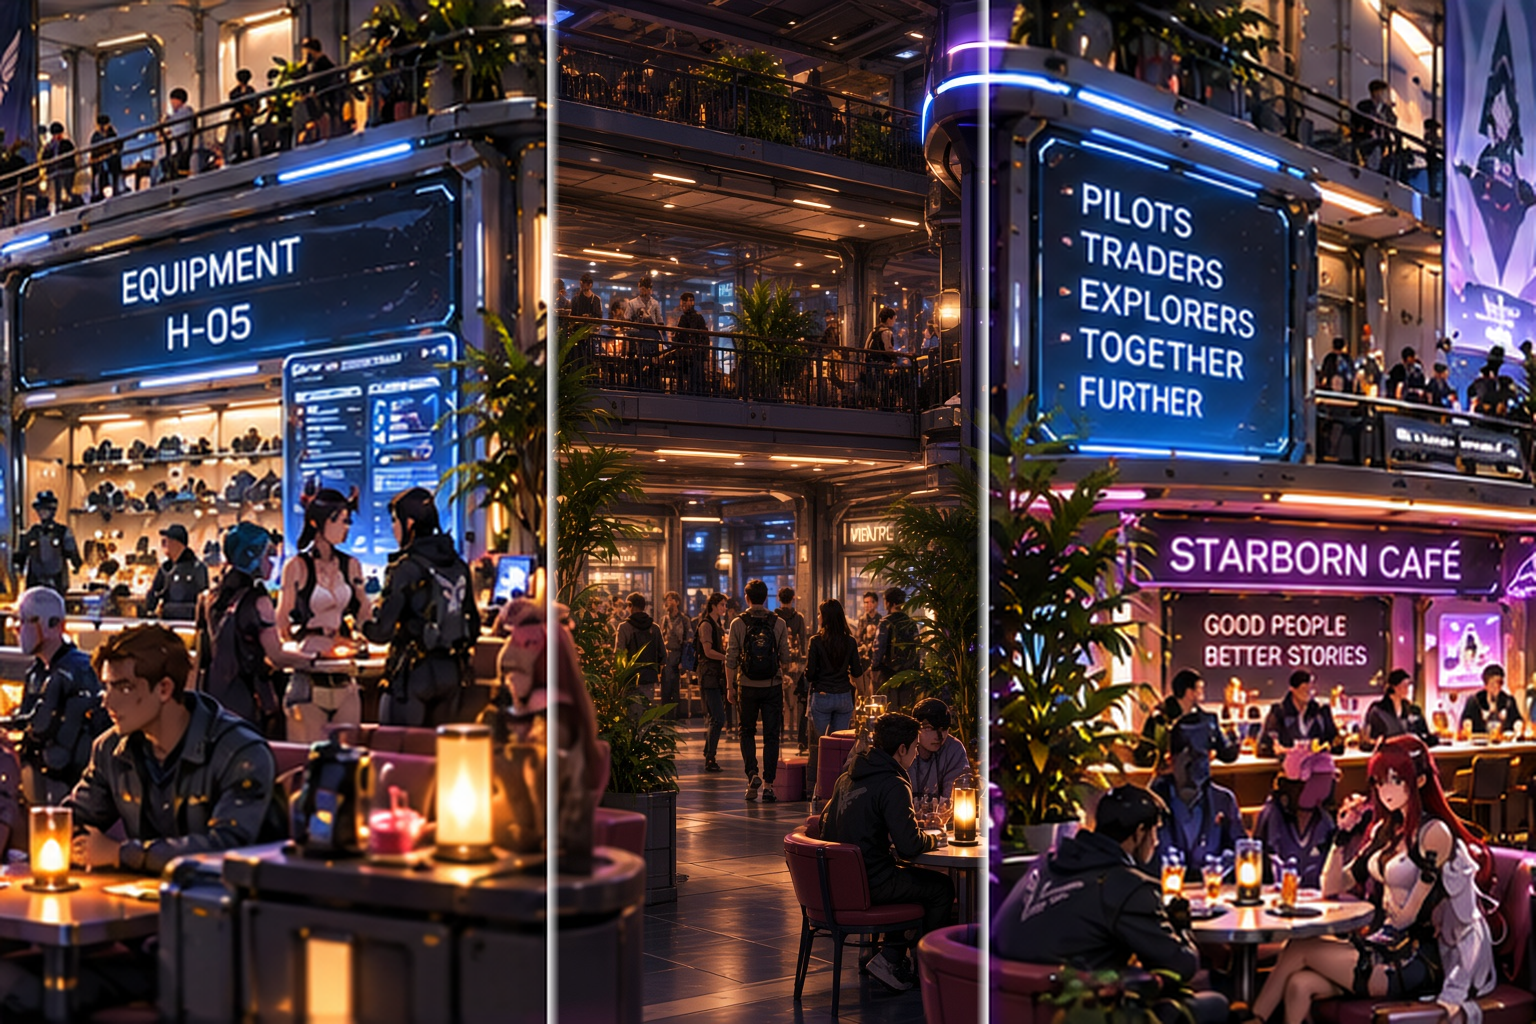
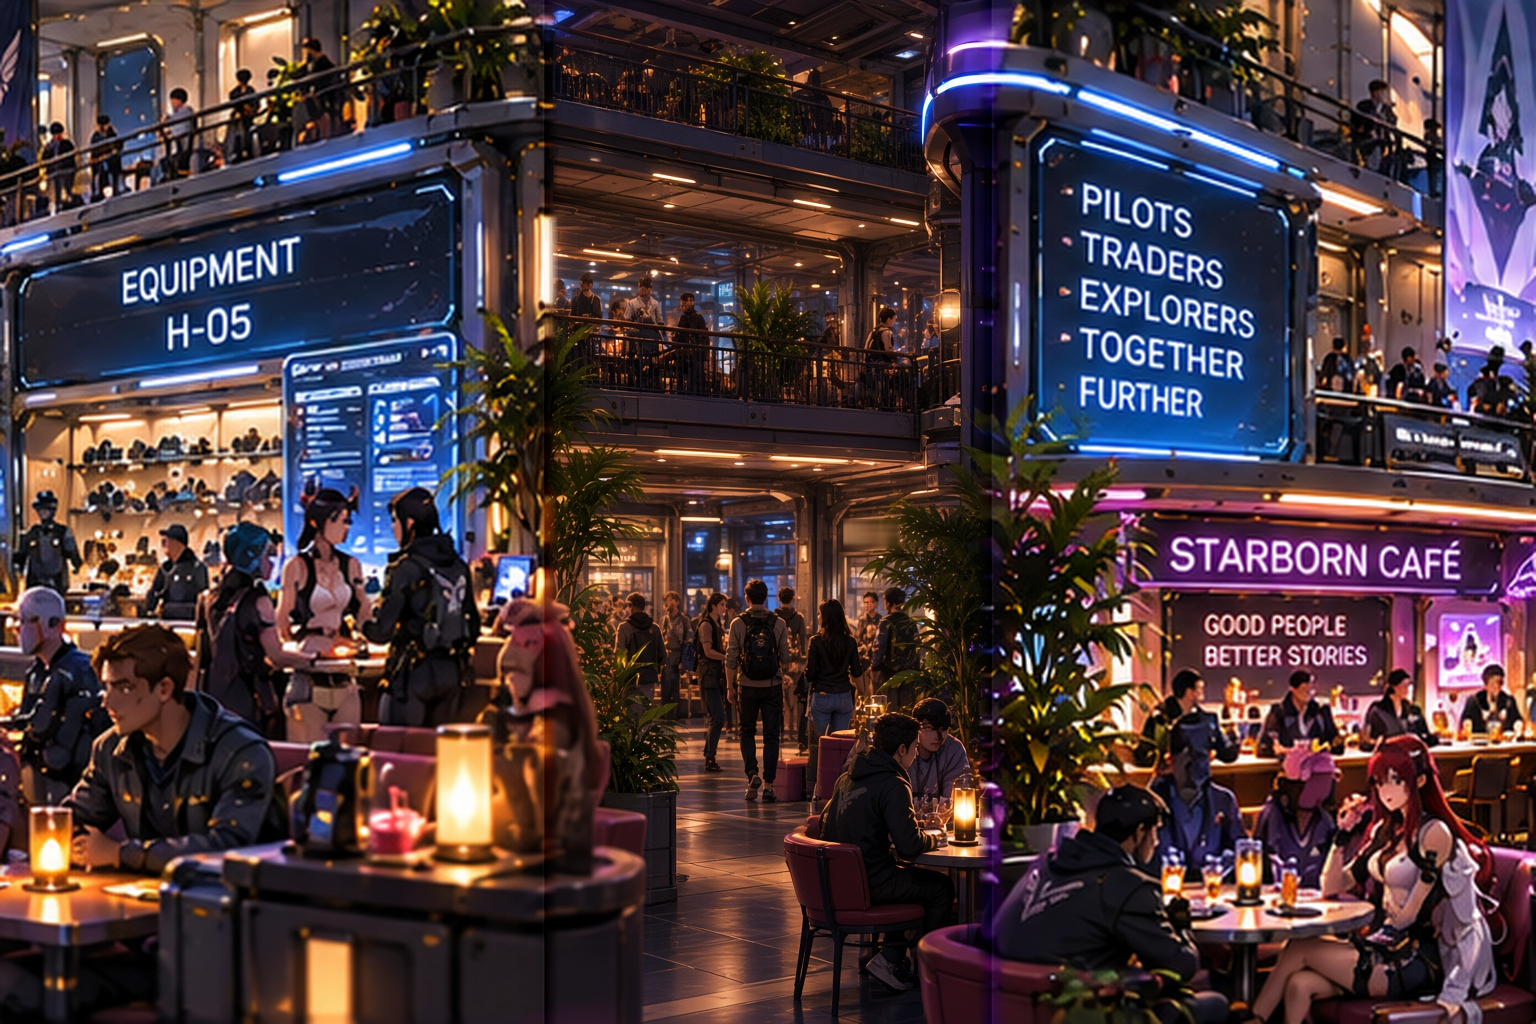
Main Hub H-01 360: owner's cleaned gap fills patched in
Claude-Session: https://claude.ai/code/session_01QCZYEt97Fw2wcDaS78wCbu

Changed region(s): [[0.625, 0.0, 0.6562, 1.0], [0.3438, 0.0, 0.375, 1.0], [0.5312, 0.5, 0.5938, 0.5312]]

diff --git a/tools/rooms/patch_gap.py b/tools/rooms/patch_gap.py
@@ -5,7 +5,7 @@ Original pixels are kept for both views; only the gap comes from the AI picture.
 Grok/ChatGPT leave a pale fade a few px wide at each edge of the white area, so `--trim` sheet px are dropped from
 each edge of the gap and the clean middle is stretched back to the full gap width (about 6 %, not visible).
 The seam is then softened over a narrow band so there is no hard line.
-usage: patch_gap.py prefix_gap.json filledA.png filledB.png out.jpg [--trim 16] [--soft 5] [--joins joins.png]"""
+usage: patch_gap.py prefix_gap.json filledA.png filledB.png out.jpg [--trim 16]  (use --trim 2 when the white edge lines were already cleaned by hand) [--soft 5] [--joins joins.png]"""
 import sys, json, numpy as np
 from PIL import Image
 from scipy.ndimage import gaussian_filter
